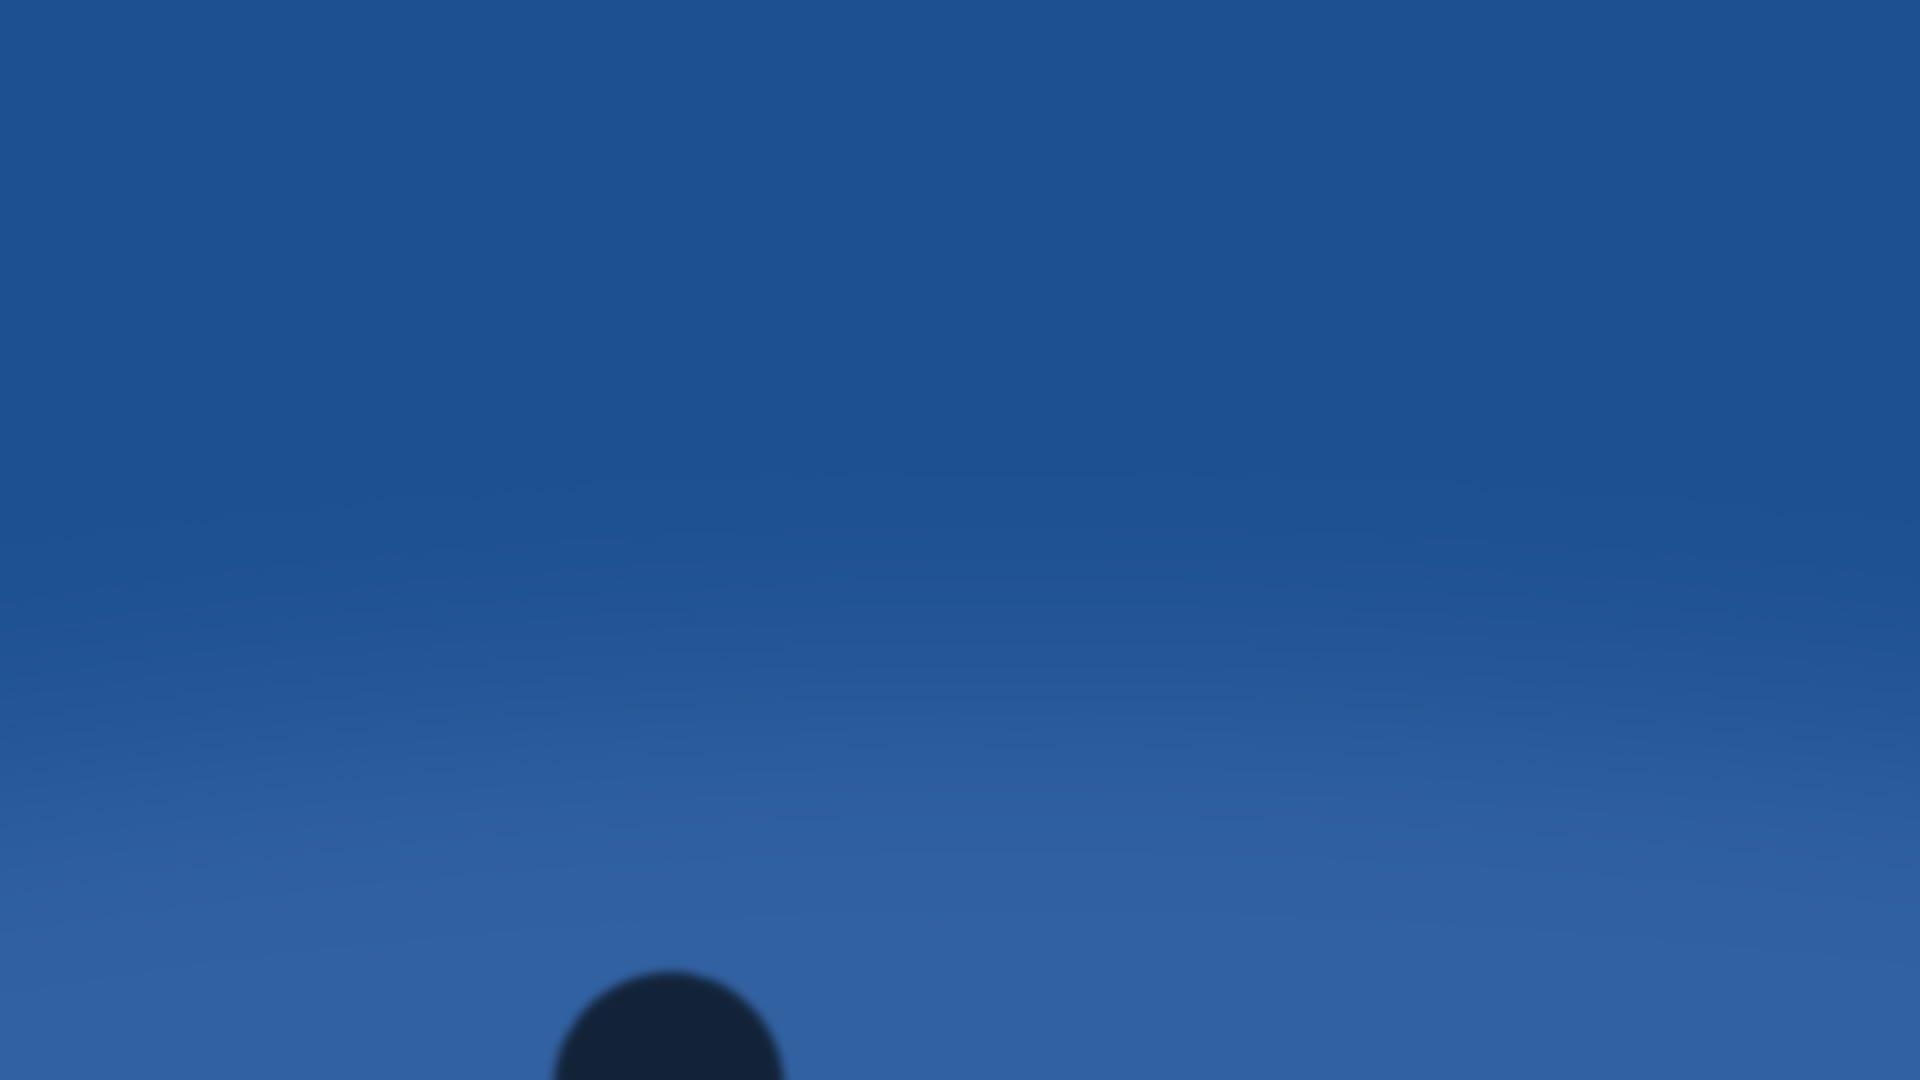
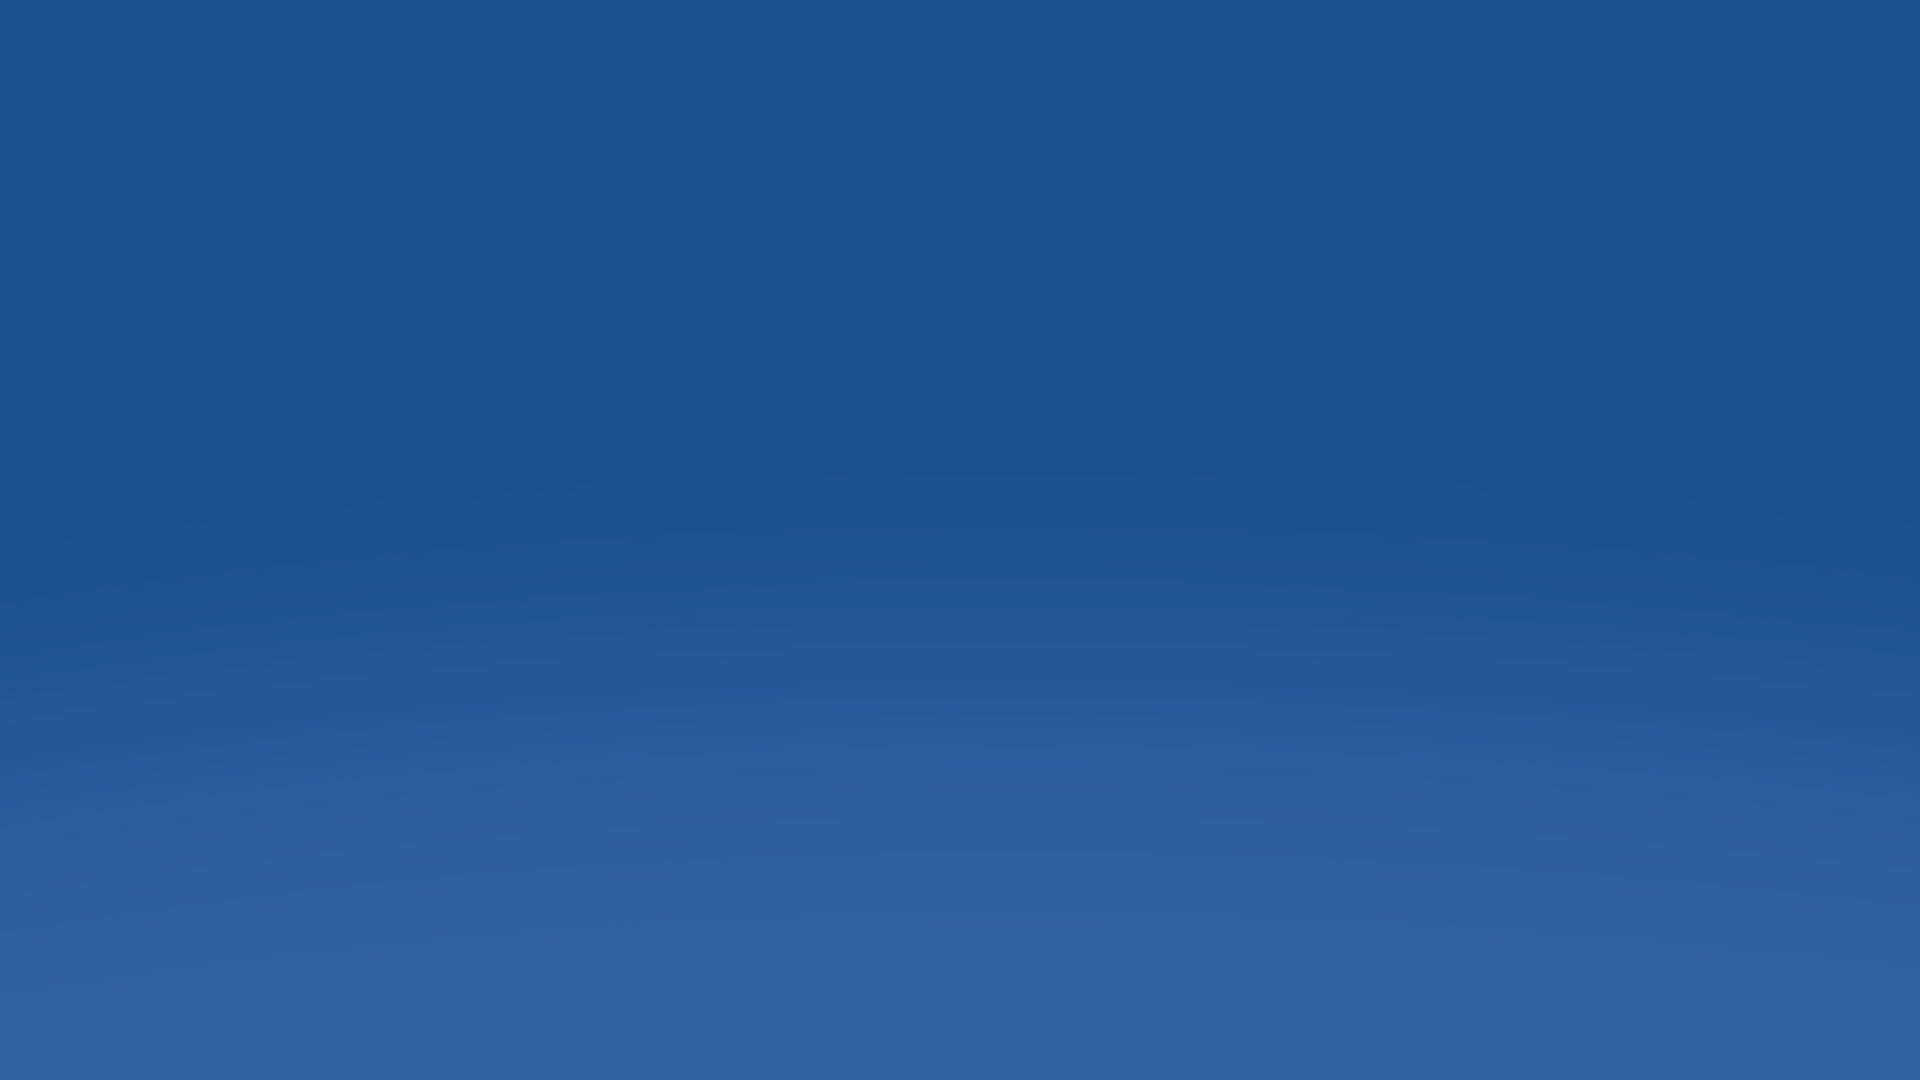
Restore the static hero and separate shadow section; cue on every device
- The hero holds frame 0 under its opaque Figma gradient (no scrub behind
  the copy); the shadow section follows again and the hero's gradient
  dissolves over its first 40% while the shadow hand rises, so bare sky is
  never revealed.
- "Scroll to explore" now shows on phones too, for as long as the hero is
  on screen.
- The up-front loading band covers the shadow scrub, the first thing a
  scroll plays; posters back to frame 0.

Changed region(s): [[0.2812, 0.8861, 0.4062, 1.0]]

diff --git a/src/lib/scenes.ts b/src/lib/scenes.ts
@@ -6,6 +6,7 @@
 
 export type SceneId =
   | "hero"
+  | "shadow"
   | "freeze"
   | "tinted"
   | "tinted-product"
@@ -30,14 +31,20 @@ export interface Scene {
   fadeIn?: number;
   /** Fraction of the section over which its copy fades out (default 0.18). */
   fadeOut?: number;
+  /**
+   * Keep this overlay fully visible through its own section, then fade it
+   * out across this fraction of the NEXT section. The hero uses it so its
+   * gradient dissolves only as the shadow hand rises — never onto bare sky.
+   */
+  linger?: number;
 }
 
 export const SCENES: Scene[] = [
-  // Design v2: the hero opens on frame 10, where only the tips of the shadow
-  // hand show (~91% down), and it rises as you scroll. The gradient stays
-  // fully dark until 70% of the way through so the bright sky isn't revealed
-  // early. This replaces the separate shadow section.
-  { id: "hero", frames: [10, 55], scroll: 1.8, fadeIn: 0, fadeOut: 0.3 },
+  // The hero holds still on frame 0 under its opaque gradient (no scrubbing
+  // behind the copy). Its gradient then dissolves over the first part of the
+  // shadow section, while the shadow hand rises into frame.
+  { id: "hero", frames: [0, 0], scroll: 1, fadeIn: 0, fadeOut: 0, linger: 0.4 },
+  { id: "shadow", frames: [0, 55], scroll: 1.2 },
   { id: "freeze", frames: [55, 100], scroll: 1 },
   // Source frames 101–135 are skipped: 104–116 are empty sky (the hand has
   // left, the face hasn't arrived) and 128–132 a blurred skin whip. Scrubbed,
@@ -92,6 +99,14 @@ export function sourceFrameAt(scrollVh: number): number {
 export function overlayState(i: number, scrollVh: number): { opacity: number; reveal: number } {
   const scene = SCENES[i];
   const local = localProgress(i, scrollVh);
+
+  if (scene.linger !== undefined) {
+    if (local < 0) return { opacity: 0, reveal: 0 };
+    if (local <= 1) return { opacity: 1, reveal: 1 };
+    if (!SCENES[i + 1]) return { opacity: 0, reveal: 1 };
+    const t = clamp01(localProgress(i + 1, scrollVh) / scene.linger);
+    return { opacity: 1 - smooth(t), reveal: 1 };
+  }
 
   if (local < 0 || local > 1) return { opacity: 0, reveal: local < 0 ? 0 : 1 };
   const fadeIn = scene.fadeIn ?? DEFAULT_FADE;

diff --git a/src/components/Stage.tsx b/src/components/Stage.tsx
@@ -18,7 +18,7 @@ import s from "./Stage.module.css";
 const MAX_DPR = 2;
 /** Seconds for the scrub to catch up with the scroll position (a little inertia on top of Lenis). */
 const EASE = 0.08;
-/** Frames past the hero's scrub that load up front, so the first scroll never waits. */
+/** Frames past the opening scrub that load up front, so the first scroll never waits. */
 const HERO_LOOKAHEAD = 6;
 /**
  * If the exact frame isn't loaded, draw one at most this far away (±6 frames
@@ -75,9 +75,11 @@ export default function Stage() {
 
     const toIndex = (sourceFrame: number) =>
       Math.min(manifest.count - 1, Math.max(0, Math.round(sourceFrame / manifest.step)));
+    // Loaded before any scroll: the hero frame plus the shadow section's
+    // scrub, which is what the first scroll plays.
     const heroBand: [number, number] = [
       toIndex(SCENES[0].frames[0]),
-      toIndex(SCENES[0].frames[1]) + HERO_LOOKAHEAD,
+      toIndex(SCENES[1].frames[1]) + HERO_LOOKAHEAD,
     ];
     const heroEnd = SCENES[0].scroll / TOTAL_SCROLL;
 
@@ -205,7 +207,7 @@ export default function Stage() {
         if (el.dataset.visible !== String(visible)) el.dataset.visible = String(visible);
       }
 
-      // Design v2: the cue belongs to the hero only, and leaves with its copy.
+      // The cue belongs to the hero (on every device) and leaves with its gradient.
       if (cueRef.current) cueRef.current.style.opacity = overlayState(0, scrollVh).opacity.toFixed(3);
 
       if (hud && hud.dataset.on === "1") {

diff --git a/src/components/overlays/overlays.module.css b/src/components/overlays/overlays.module.css
@@ -93,16 +93,15 @@
   display: flex;
   align-items: center;
   justify-content: center;
-  /* Radial gradient from Figma (2816×798px ellipse on the 1801×1070 frame).
-     Design v2: the lower half lets the footage through so the shadow hand
-     (frame 18) reads beneath it, as in Paper. */
+  /* Radial gradient from Figma (2816×798px ellipse on the 1801×1070 frame),
+     fully opaque: nothing behind the hero copy shows through. */
   background: radial-gradient(
     156vw 74.6vh at 50% 25.6%,
     #061624 0%,
     #061624 42.5%,
-    rgba(13, 37, 59, 0.96) 56.9%,
-    rgba(20, 51, 81, 0.88) 71.3%,
-    rgba(33, 80, 126, 0.78) 100%
+    #0d253b 56.9%,
+    #143351 71.3%,
+    #21507e 100%
   );
   /* Centre the content in the visible area, above any browser toolbar. */
   padding-bottom: var(--toolbar);

diff --git a/src/components/overlays/sceneOverlays.tsx b/src/components/overlays/sceneOverlays.tsx
@@ -138,6 +138,7 @@ export function sceneOverlay(id: SceneId): ReactNode {
       return <UvCta />;
 
     // Footage-only sections.
+    case "shadow":
     case "tinted":
     case "applicator":
     case "court":

diff --git a/src/components/Stage.module.css b/src/components/Stage.module.css
@@ -78,7 +78,8 @@
 
 @media (max-width: 767px) {
   .cue {
-    display: none;
+    font-size: 14px;
+    bottom: calc(28px + var(--toolbar));
   }
 }
 
